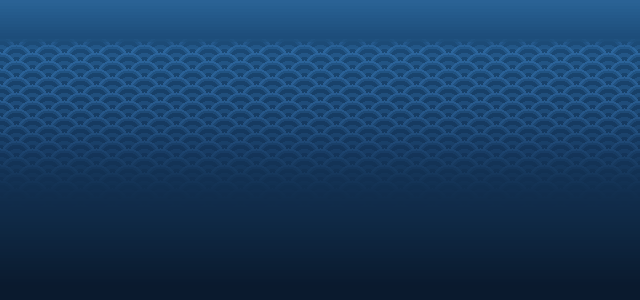
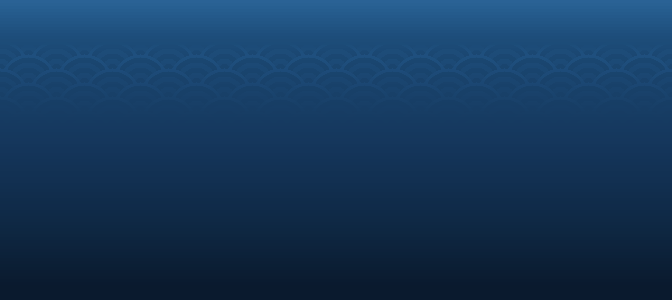
Ukiyo-e: new surface crest strip and larger, quieter Seigaiha (work in progress)

Changed region(s): [[0.0, 0.15, 1.0, 0.48]]

diff --git a/tools/gen-ukiyoe-theme.js b/tools/gen-ukiyoe-theme.js
@@ -61,7 +61,9 @@ const inEll = (x, y, cx, cy, rx, ry) => ((x - cx) / rx) ** 2 + ((y - cy) / ry) *
 function palette(variant) {
     const p = {};
     for (const k in T.PALETTE) p[k] = hex(T.PALETTE[k]);
-    T.WATER.variants[variant === undefined ? T.WATER.variants.length - 1 : variant].tones.forEach((c, i) => { p[String(i + 1)] = hex(c); });
+    const vr = T.WATER.variants[variant === undefined ? T.WATER.variants.length - 1 : variant];
+    vr.tones.forEach((c, i) => { p[String(i + 1)] = hex(c); });
+    vr.foam.forEach((c, i) => { p[String(i + 6)] = hex(c); });       // '6' foam, '7' foam shade (surface strip)
     return p;
 }
 function render(g, variant) {
@@ -485,7 +487,7 @@ function lureSprite(level) {
 // ── backdrop: bokashi water with Seigaiha ────────────────────
 // Seigaiha: scales of radius R texels on a half-radius grid (rows R/2 apart, every second row shifted by R), the
 // rows drawn top to bottom so each lower scale overlaps the one above. Rings `ring` texels wide alternate two
-// tones, the outer arc is a lighter band 2 texels wide (never a 1-texel line). Returns the pattern index per texel: 0 none, 1 lighter ring, 2 arc.
+// tones, the outer arc is a slightly lighter band `arcW` texels wide (never a 1-texel line). Returns the pattern index per texel: 0 none, 1 lighter ring, 2 arc.
 function seigaiha(cols, rows) {
     const Wt = T.WATER, R = Wt.scale, idx = new Uint8Array(cols * rows), step = R / 2;
     for (let j = -2; Wt.startRow - R + j * step <= rows + R; j++) {
@@ -496,7 +498,7 @@ function seigaiha(cols, rows) {
                     const d = Math.hypot(x - cx, y - cy);
                     if (d > R) continue;
                     const k = Math.floor(d / Wt.ring), xx = ((x % cols) + cols) % cols;
-                    idx[y * cols + xx] = d > R - 2 ? 2 : (k & 1 ? 1 : 0);
+                    idx[y * cols + xx] = d > R - Wt.arcW ? 2 : (k & 1 ? 1 : 0);
                 }
             }
         }
@@ -526,54 +528,174 @@ function waterImage(v) {
     return { W, H, px };
 }
 
-// Hokusai Kanagawa-style surface strip (128 texels wide = two wave cells of 64, tiles horizontally): a deep blue
-// wave body that lightens in three flat steps into the sea's top blue, a thick cream foam cap on the crest and
-// tapering foam claws that hang down the curling front, indigo keyblock outlines around everything.
-// Letters '1'..'5' are the variant's five blues; '4' equals the water's top tone so the strip melts into the sea.
+// ── surface: one long line of Hokusai-style crests ───────────
+// The strip is 640 texels wide (1920 px at 1080p) and is drawn once across a 1080p screen, so no crest repeats
+// next to its twin. Crests are curves, not pixel art by hand: each is a closed outline built from smooth splines,
+// rasterised at 8x and cut to texels by majority coverage, which gives every curve one steady step rhythm
+// (the same run lengths all along a slope, no jaggies). Shapes: a body, a darker hollow under the curling lip, a
+// cream foam cap that thickens toward the lip and tapers to a hook, up to three claw fingers hanging from the lip
+// (clean filled shapes, never specks) and a one-texel indigo keyblock outline of constant weight around all of it.
+// Under the crests runs a darker band (the undertow) in two flat blues that melts into the sea.
+// Letters: '1'..'5' water tones, '6' foam, '7' foam shade (per daylight variant), 'i' indigo outline.
+const SURF_SS = 8;
+const SURF_CRESTS = [
+    // x: texel column of the peak, h: height in texels, d: +1 curls to the right / -1 to the left, claws: 0..3,
+    // sw: how far the lip reaches forward (1 = the full hook)
+    { x: 28,  h: 5,  d: 1,  claws: 0, sw: 0.9 },
+    { x: 120, h: 16, d: 1,  claws: 3, sw: 1.0 },
+    { x: 190, h: 6,  d: 1,  claws: 0, sw: 1.0 },
+    { x: 256, h: 12, d: 1,  claws: 2, sw: 1.0 },
+    { x: 316, h: 5,  d: -1, claws: 0, sw: 0.85 },
+    { x: 372, h: 8,  d: 1,  claws: 0, sw: 1.0 },
+    { x: 440, h: 14, d: 1,  claws: 3, sw: 1.05 },
+    { x: 505, h: 6,  d: 1,  claws: 0, sw: 0.9 },
+    { x: 552, h: 12, d: -1, claws: 2, sw: 1.0 },
+    { x: 612, h: 5,  d: -1, claws: 0, sw: 0.9 }
+];
+const surfBase = x => 18.2 + 0.6 * Math.sin(2 * Math.PI * x / 640 * 3 + 0.7) + 0.3 * Math.sin(2 * Math.PI * x / 640 * 5 + 2.1);
+const surfBand = (x, k) => k === 1
+    ? 2.2 + 0.4 * Math.sin(2 * Math.PI * x / 640 * 4 + 1.3)
+    : 4.4 + 0.5 * Math.sin(2 * Math.PI * x / 640 * 3 + 0.2);
+
+// open Catmull-Rom spline through the points (dense polyline)
+function spline(pts, per) {
+    const out = [], n = pts.length;
+    for (let i = 0; i < n - 1; i++) {
+        const p0 = pts[Math.max(0, i - 1)], p1 = pts[i], p2 = pts[i + 1], p3 = pts[Math.min(n - 1, i + 2)];
+        for (let k = 0; k < per; k++) {
+            const t = k / per, t2 = t * t, t3 = t2 * t;
+            out.push([0, 1].map(c => 0.5 * ((2 * p1[c]) + (-p0[c] + p2[c]) * t + (2 * p0[c] - 5 * p1[c] + 4 * p2[c] - p3[c]) * t2 + (-p0[c] + 3 * p1[c] - 3 * p2[c] + p3[c]) * t3)));
+        }
+    }
+    out.push(pts[n - 1]);
+    return out;
+}
+// crest geometry in local units (u along the lean, v up, both in multiples of h) -> polygons in texel space.
+// A crest is a long concave back slope that rolls into a round curl (a "C" of radius 0.5 h), a hollow barrel under
+// the lip (dark), a cream foam band along the outside of the curl and claw fingers fanning out of its front.
+function crestShapes(c) {
+    const h = c.h, rad = d => d * Math.PI / 180;
+    const sm = t => { t = Math.max(0, Math.min(1, t)); return t * t * (3 - 2 * t); };
+    const world = ([u, v]) => { const x = c.x + c.d * u * h; return [x, surfBase(x) - v * h]; };
+    const hollow = h >= 9;
+    const KX = 1.18, C = [0.05, 0.5], Ro = 0.5, th0 = hollow ? 0.27 : 0.46;               // ring thickness at the top of the curl
+    const tipDeg = hollow ? -12 : -2 - 12 * (c.sw - 0.9);
+    const arc = (deg0, deg1, r, n) => Array.from({ length: n + 1 }, (_, i) => { const a = rad(deg0 + (deg1 - deg0) * i / n), rr = typeof r === 'function' ? r(deg0 + (deg1 - deg0) * i / n) : r; return [C[0] + KX * rr * Math.cos(a), C[1] + rr * Math.sin(a)]; });
+    const outerArc = arc(166, tipDeg, Ro, 60);
+    const slope = spline([[-2.4, 0.0], [-1.8, 0.06], [-1.25, 0.18], [-0.9, 0.33], [-0.7, 0.47], outerArc[0]], 14);
+    const outer = slope.slice(0, -1).concat(outerArc);
+    // ring thickness along the curl: 0 at the tip, full from 10 degrees on
+    const ringTh = deg => th0 * sm((deg - tipDeg) / (hollow ? 22 : 30));
+    const innerArc = arc(tipDeg, 270, deg => Ro - ringTh(deg), 90);              // from the tip back over the top, down the left
+    const wallStart = innerArc[innerArc.length - 1];
+    const wall = spline([wallStart, [0.12, 0.17], [0.38, 0.07], [0.62, 0.02], [0.84, 0.0]], 12);
+    const shapes = { body: null, hollow: null, foam: null, foam2: null, claws: [] };
+    shapes.body = (hollow ? outer.concat(innerArc.slice().reverse().reverse(), wall.slice(1)) : outer.concat([[0.84, 0.0]])).map(world);
+    if (hollow) shapes.hollow = innerArc.concat([]).map(world);
+    // foam band along the outside of the curl
+    const foamDeg0 = 150, n = 60;
+    const fo = [], fi = [], f2 = [];
+    for (let i = 0; i <= n; i++) {
+        const deg = foamDeg0 + (tipDeg - foamDeg0) * i / n, a = rad(deg);
+        const t = (hollow ? 0.78 : 0.7) * ringTh(deg) * sm((foamDeg0 - deg) / 40) + 0;
+        const tt = Math.max(t, 0);
+        fo.push([C[0] + KX * Ro * Math.cos(a), C[1] + Ro * Math.sin(a)]);
+        fi.push([C[0] + KX * (Ro - tt) * Math.cos(a), C[1] + (Ro - tt) * Math.sin(a)]);
+        f2.push([C[0] + KX * (Ro - tt * 0.5) * Math.cos(a), C[1] + (Ro - tt * 0.5) * Math.sin(a)]);
+    }
+    shapes.foam = fo.concat(fi.slice().reverse()).map(world);
+    if (hollow && h >= 12) shapes.foam2 = f2.slice(Math.floor(n * 0.2), Math.floor(n * 0.85)).concat(fi.slice(Math.floor(n * 0.2), Math.floor(n * 0.85)).reverse()).map(world);
+    // claw fingers fanning out of the front of the curl and drooping
+    const N = c.claws, degs = N === 3 ? [58, 28, -2] : [46, 6], lens = N === 3 ? [0.52, 0.58, 0.48] : [0.58, 0.5];
+    for (let k = 0; k < N; k++) {
+        const a = rad(degs[k]), rd = [Math.cos(a), Math.sin(a)], tg = [Math.sin(a), -Math.cos(a)];
+        const ad = a - rad(N === 3 ? [38, 36, 32][k] : [36, 30][k]);
+        let dir = [Math.cos(ad), Math.sin(ad)];
+        const dm = Math.hypot(dir[0], dir[1]); dir = [dir[0] / dm, dir[1] / dm];
+        const s0 = [C[0] + KX * (Ro - 0.07) * rd[0], C[1] + (Ro - 0.07) * rd[1]];
+        const Lc = lens[k], w0 = Math.max(2.8, 0.21 * h) / h, cl = [];
+        for (let i = 0; i <= 18; i++) {
+            const t = i / 18;
+            cl.push({ p: [s0[0] + dir[0] * Lc * t + 0.03 * t * t, s0[1] + dir[1] * Lc * t - 0.16 * t * t], w: w0 * Math.pow(1 - t, 0.65) });
+        }
+        const A = [], B = [];
+        cl.forEach((q, i) => {
+            const pa = cl[Math.max(0, i - 1)].p, pb = cl[Math.min(cl.length - 1, i + 1)].p;
+            const tx = pb[0] - pa[0], ty = pb[1] - pa[1], m = Math.hypot(tx, ty) || 1, nx = ty / m, ny = -tx / m;
+            A.push([q.p[0] + nx * q.w / 2, q.p[1] + ny * q.w / 2]);
+            B.push([q.p[0] - nx * q.w / 2, q.p[1] - ny * q.w / 2]);
+        });
+        shapes.claws.push(A.concat(B.reverse()).map(world));
+    }
+    return shapes;
+}
+// rasterise polygons (even-odd, wrapped in x) at SURF_SS x supersampling; a texel is set when at least half is covered
+function rasterPolys(polys, W, H) {
+    const SS = SURF_SS, sw = W * SS, sh = H * SS, sub = new Uint8Array(sw * sh);
+    for (const poly of polys) for (const ox of [-W, 0, W]) {
+        let ymin = 1e9, ymax = -1e9;
+        for (const p of poly) { ymin = Math.min(ymin, p[1]); ymax = Math.max(ymax, p[1]); }
+        for (let j = Math.max(0, Math.floor(ymin * SS)); j < Math.min(sh, Math.ceil(ymax * SS)); j++) {
+            const y = (j + 0.5) / SS, xs = [];
+            for (let i = 0; i < poly.length; i++) {
+                const a = poly[i], b = poly[(i + 1) % poly.length];
+                if ((a[1] <= y) !== (b[1] <= y)) xs.push(a[0] + ox + (y - a[1]) / (b[1] - a[1]) * (b[0] - a[0]));
+            }
+            xs.sort((p, q) => p - q);
+            for (let k = 0; k + 1 < xs.length; k += 2) {
+                for (let i = Math.max(0, Math.ceil(xs[k] * SS - 0.5)); i < Math.min(sw, Math.ceil(xs[k + 1] * SS - 0.5)); i++) sub[j * sw + i] = 1;
+            }
+        }
+    }
+    const out = new Uint8Array(W * H);
+    for (let y = 0; y < H; y++) for (let x = 0; x < W; x++) {
+        let n = 0;
+        for (let j = 0; j < SS; j++) for (let i = 0; i < SS; i++) n += sub[(y * SS + j) * sw + x * SS + i];
+        if (n * 2 >= SS * SS) out[y * W + x] = 1;
+    }
+    return out;
+}
+const foamCh = ch => ch === '6' || ch === '7';
 function surfaceStrip() {
     const S = T.SURFACE, W = S.cols, H = S.rows, g = mk(W, H);
-    const cells = [{ amp: 12.5, xp: 40, trough: 15.4 }, { amp: 10, xp: 37, trough: 15.4 }];
-    cells.forEach((c, ci) => {
-        const x0 = ci * 64;
-        const top = x => {                                   // crest profile: the row of the wave's upper edge
-            if (x <= c.xp) return c.trough - c.amp * Math.pow(Math.sin(Math.PI / 2 * x / c.xp), 1.7) + 0.3 * Math.sin(x * 0.6);
-            const u = Math.min(1, (x - c.xp) / 15);          // the lip curls over and the front face falls steeply
-            return c.trough - c.amp + c.amp * Math.pow(u, 1.9);
-        };
-        const putc = (x, y, ch) => put(g, x0 + x, y, ch);
-        for (let x = 0; x < 64; x++) {
-            const t = top(x), yt = Math.round(t);
-            // foam depth: none on the back slope, a thick cap near the crest, thin along the front face
-            const fd = x < 13 ? 0 : (x < c.xp ? 2 + 2.2 * smooth((x - 13) / (c.xp - 13)) : 4.2 * (1 - smooth((x - c.xp) / 9)));
-            for (let y = yt; y < H; y++) {
-                const d = y - t;
-                const foamHere = fd >= 0.9 && d < fd;
-                putc(x, y, foamHere ? 'w' : (d < fd + 5 ? '2' : (d < fd + 9 ? '3' : '4')));
-            }
+    const sh = SURF_CRESTS.map(crestShapes);
+    // undertow bands under the wave line
+    for (let x = 0; x < W; x++) {
+        const b0 = surfBase(x + 0.5);
+        for (let y = 0; y < H; y++) {
+            const yc = y + 0.5;
+            g[y][x] = yc < b0 ? '.' : yc < b0 + surfBand(x + 0.5, 1) ? '2' : yc < b0 + surfBand(x + 0.5, 2) ? '3' : '4';
         }
-        // foam claws: tapering fingers hanging from the crest lip down the front face, curling forward
-        const claws = [[c.xp - 5, 7.5, 0.0], [c.xp + 0, 10, 0.4], [c.xp + 5, 9, 0.8], [c.xp + 10, 6, 1.1]];
-        for (const [cx, len, curl] of claws) {
-            const cy = top(cx) + 1.5;
-            for (let s2 = 0; s2 <= len * 3; s2++) {
-                const t = s2 / (len * 3), px = cx + 1.2 * t * len * 0.35 + curl * 2.2 * t * t, py = cy + len * t;
-                const rad = 1.7 * (1 - 0.75 * t) + 0.3;
-                for (let y = Math.floor(py - rad); y <= Math.ceil(py + rad); y++) for (let x = Math.floor(px - rad); x <= Math.ceil(px + rad); x++) {
-                    if (Math.hypot(x - px, y - py) <= rad) putc(x, y, 'w');
-                }
-            }
+    }
+    const paint = (polys, ch) => {
+        const m = rasterPolys(polys, W, H);
+        for (let y = 0; y < H; y++) for (let x = 0; x < W; x++) if (m[y * W + x]) g[y][x] = ch;
+        return m;
+    };
+    paint(sh.map(s => s.body), '3');
+    paint(sh.filter(s => s.hollow).map(s => s.hollow), '2');
+    paint(sh.map(s => s.foam), '6');
+    paint(sh.filter(s => s.foam2).map(s => s.foam2), '7');
+    paint([].concat(...sh.map(s => s.claws)), '6');
+    // clean-up: a clear texel squeezed between foam on two opposite sides (a 1-texel channel) becomes foam
+    const isF = (x, y) => foamCh(get(g, (x + W) % W, y));
+    for (let pass = 0; pass < 2; pass++) {
+        const fill = [];
+        for (let y = 0; y < H; y++) for (let x = 0; x < W; x++) {
+            if (foamCh(g[y][x])) continue;
+            if ((isF(x - 1, y) && isF(x + 1, y)) || (isF(x, y - 1) && isF(x, y + 1))) fill.push([x, y]);
         }
-        // spray: two detached 2x2 cream flecks ahead of the crest
-        for (const [fx, fy] of [[c.xp + 12, 3], [c.xp + 16, 1]]) for (const [dx, dy] of [[0, 0], [1, 0], [0, 1], [1, 1]]) putc(fx + dx, fy + dy, 'w');
-    });
-    // keyblock outlines: indigo around the whole shape and between foam and blue
+        for (const [x, y] of fill) g[y][x] = '6';
+    }
+    // keyblock outlines: indigo outside the silhouette and between foam and blue
+    const foam = foamCh;
     const add = [];
     for (let y = 0; y < H; y++) for (let x = 0; x < W; x++) {
         const c = g[y][x];
         for (const [dx, dy] of N4) {
             const n = get(g, (x + dx + W) % W, y + dy);
             if (c === '.' && n !== '.') { add.push([x, y]); break; }
-            if (c !== 'w' && c !== '.' && n === 'w') { add.push([x, y]); break; }
+            if (!foam(c) && c !== '.' && foam(n)) { add.push([x, y]); break; }
         }
     }
     for (const [x, y] of add) g[y][x] = 'i';

diff --git a/contents/themes/ukiyoe/theme.js b/contents/themes/ukiyoe/theme.js
@@ -126,26 +126,29 @@ function bubbleClass(scale) { return scale < 2.25 ? 0 : 1; }
 function bubbleFile(scale) { return bubbleClass(scale) ? "bubble-b.png" : "bubble-s.png"; }
 
 // ── backdrop: bokashi water with the Seigaiha (blue ocean waves) pattern ──
-// The sea is a static 640x300 texel image per daylight variant (night, dusk, day): a smooth vertical bokashi from
+// The sea is a static 672x300 texel image per daylight variant (night, dusk, day): a smooth vertical bokashi from
 // a lighter Prussian blue at the surface to deep indigo at the floor, in steps of `step` texel rows (never one
-// row, so the banding never reads as stripes), with overlapping concentric wave scales (Seigaiha, scale radius
-// `scale` texels, rings `ring` texels wide, outer arc in a lighter blue) that fade out with depth (full down to
-// row `fadeFrom`, gone at `fadeTo`). Everything below is plain bokashi. The width is a multiple of the scale
-// diameter, so the tile repeats without a seam. `stops` are [texel row, colour] of the gradient (the pattern is
-// added on top as lighter offsets: `tone` for every second ring, `arc` for the outer arc, as [r, g, b] at full
-// strength); `tones` are the five flat blues the surface strip is painted in ('2' deep, '3' mid, '4' = the gradient at row 36, '5' = the pale sky at the top).
+// row, so the banding never reads as stripes), with large overlapping concentric wave scales (Seigaiha, scale
+// radius `scale` texels = 84 px at 1080p, rings `ring` texels wide, outer arc `arcW` texels wide in a slightly
+// lighter blue) that fade out with depth (full down to row `fadeFrom`, gone at `fadeTo`, a third of the screen).
+// Everything below is plain bokashi. The width is a multiple of the scale diameter, so the tile repeats without
+// a seam. `stops` are [texel row, colour] of the gradient (the pattern is added on top as small lighter offsets:
+// `tone` for every second ring, `arc` for the outer arc, as [r, g, b] at full strength); `tones` are the five
+// flat blues the surface strip is painted in ('2' deep, '3' mid, '4' = the gradient at row 36, '5' = the pale sky
+// at the top); `foam` are the two creams of the crests (light, shade): the washi pigments by day, dimmer at dusk
+// and night so the white of the foam never glares in a dark room.
 var WATER = {
-    cols: 640, rows: 300, step: 3, scale: 16, ring: 4, startRow: 36, fadeIn: 14, fadeFrom: 90, fadeTo: 210,
+    cols: 672, rows: 300, step: 3, scale: 28, ring: 5, arcW: 3, startRow: 40, fadeIn: 16, fadeFrom: 58, fadeTo: 124,
     variants: [
-        { name: "night", daylight: 0,   tone: [6, 11, 15], arc: [13, 22, 31],
+        { name: "night", daylight: 0,   tone: [1, 3, 4], arc: [3, 6, 9],
           stops: [[0, "#1d4066"], [36, "#14304f"], [60, "#10294a"], [150, "#0c2038"], [230, "#09182b"], [285, "#0a1a2e"]],
-          tones: ["#08182a", "#08182a", "#0e2540", "#14304f", "#1d4066"] },
-        { name: "dusk",  daylight: 0.3, tone: [8, 15, 21], arc: [17, 29, 41],
+          tones: ["#08182a", "#08182a", "#0e2540", "#14304f", "#1d4066"], foam: ["#aaa896", "#807f74"] },
+        { name: "dusk",  daylight: 0.3, tone: [2, 4, 6], arc: [4, 8, 12],
           stops: [[0, "#2a6396"], [36, "#1d4d7a"], [60, "#1a4670"], [150, "#14355a"], [230, "#0e2742"], [285, "#0a1a2e"]],
-          tones: ["#0e2742", "#0e2742", "#14355a", "#1d4d7a", "#2a6396"] },
-        { name: "day",   daylight: 0.7, tone: [10, 18, 26], arc: [21, 36, 52],
+          tones: ["#0e2742", "#0e2742", "#14355a", "#1d4d7a", "#2a6396"], foam: ["#cbc3a8", "#a39b82"] },
+        { name: "day",   daylight: 0.7, tone: [2, 5, 7], arc: [5, 10, 14],
           stops: [[0, "#2f6a96"], [36, "#1f4f7e"], [70, "#1f4f7e"], [130, "#1b4573"], [190, "#153862"], [250, "#0e2a48"], [285, "#0a1a2e"]],
-          tones: ["#0e2a47", "#102f50", "#173f68", "#1f4f7e", "#2f6a96"] }
+          tones: ["#0e2a47", "#102f50", "#173f68", "#1f4f7e", "#2f6a96"], foam: ["#e8dfc6", "#c9bd9b"] }
     ]
 };
 function waterFile(level) { return "water-" + level + ".png"; }
@@ -156,10 +159,11 @@ function waterLevel(daylight) {
     return l;
 }
 function surfaceFile(level) { return "surface-" + level + ".png"; }
-// Hokusai Kanagawa-style surface strip: wave crests that curl into cream foam claws (128x18, tiles horizontally).
-// y: texel row of the strip (the top panel covers about 18 texels = 54 px; nothing but water is drawn above the
-// strip's own top row). floor: the simulation keeps creature CENTRES below this texel row (the strip ends at row 35; a mid fish is 9 texels tall).
-var SURFACE = { cols: 128, rows: 18, y: 18, floor: 44 };
+// Hokusai-style surface strip: one long, never visibly repeating line of wave crests of different size and lean
+// (640x26 texels = 1920 px wide at 1080p, tiles horizontally). y: texel row of the strip (the top panel covers
+// about 18 texels = 54 px; nothing but water is drawn above the strip's own top row). floor: the simulation
+// keeps creature CENTRES below this texel row (the strip ends at row 44).
+var SURFACE = { cols: 640, rows: 26, y: 18, floor: 44 };
 
 // seabed: layered reef & dune strip along the bottom (32 of the 360 texel rows = 8.9% <= 9%), 640 texels wide
 var SEABED = { cols: 640, rows: 32 };
